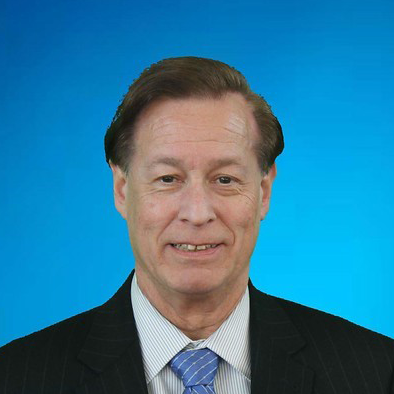
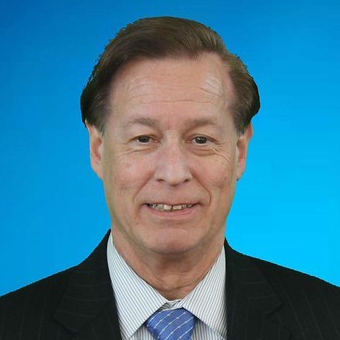
Updated speakers

Changed region(s): [[0.0588, 0.0294, 1.0, 1.0], [0.0, 0.8529, 0.0588, 0.8824]]

diff --git a/src/constants/speakers.ts b/src/constants/speakers.ts
@@ -3,14 +3,41 @@ export const SPEAKERS = [
         id: 1,
         speakers: [
             {
-                image: "/speakers/charles_sills.png",
-                name: "Charles Sills",
-                position: "President & CEO",
-                company: "American Defense Alliance",
+                image: "/speakers/joachim_christian.png",
+                name: "His Royal Highness Prince Joachim",
+                position: "Prince of Denmark",
+                company: "",
                 bio: `
-                Charles Sills is a recognized authority on U.S. Government Contracting and an advocate for Small Business access to Federal and Military procurement. He is President of FED/Contracting, LLC, a Washington D.C. based consultancy that assists Small Businesses to succeed in the Government Sector, helps Prime Contractors qualify Diversity Suppliers, and facilitates Federal ‘Mentor-Protégé’ partnerships. He is a former Naval Intelligence Officer who served in National Security positions in the Pentagon and the Middle East/Indian Ocean Theater. Later he directed Defense Systems and Renewable Energy Strategic Marketing in Lockheed Martin’s International Division.
-                <br></br>
-                He has an M.A. from the Fletcher School of Law & Diplomacy (Tufts & Harvard), and an A.B. from Princeton University/Woodrow Wilson School of Public & Int’l Affairs.
+                Joachim Holger Waldemar Christian, Prince of Denmark, Count of Monpezat, was born on 7 June 1969. His Royal Highness Prince Joachim is the son of HM Queen Margrethe II and Prince Henrik of Denmark (d. 2018). He is included in the order of succession to the Throne and may act as Regent when HM The Queen and HRH Crown Prince Frederik are abroad.
+                <br><br>
+                Prince Joachim’s military career started in 1987 as recruit in the Queen's Own Regiment. In 1988, Prince Joachim was appointed as a sergeant, and in 1989, he was appointed as a lieutenant of the reserve. After becoming a lieutenant, Prince Joachim served as a Platoon Commander of a tank squadron in the Prince's Own Regiment from 1989 to 1990.
+                In 1990, Prince Joachim was appointed a first lieutenant of the reserve and in 1992, after completion of advanced training level I for officers of the reserve (VUT I), came his appointment as a captain of the reserve. From 1996 to 2004, Prince Joachim was the commander of a tank squadron in the mobilization force of the Prince's Own Regiment and, from 2005, was attached to the Danish Division’s staff as a major of the reserve.
+                Following appointment as a lieutenant colonel of the reserve in 2011, Prince Joachim was designated as the chief of the Liaison Officers Group in Total Defence Region Fyn, Syd and Sønderjylland.
+                From November 2015 to June 2019 Prince Joachim served as special advisor to the Danish Chief of Defence in relation to the implementation of the new total force concept, focusing on the Home Guard and personnel of the Reserve.
+                From August 2019 to June 2020 Prince Joachim attended the 69th session of the Center for Advanced Military Studies (CHEM) and the 72nd session of the Institute of Advanced National Defense Studies (IHEDN) at École Militaire in Paris.
+                Since September 2020 Prince Joachim is Defense Attache at the Royal Danish Embassy in Paris.
+                `
+            },
+            {
+                image: "/speakers/dave_leinberger.png",
+                name: "Dave Leinberger",
+                position: "Chief of Army Community Partnerships",
+                company: "ODCS G-9 (Installations), HQDA, Pentagon",
+                bio: 
+                `
+                Dave Leinberger assumed the role as the Chief of Army Community Partnerships in July 2024.
+                In this position, Mr. Leinberger encourages innovation and collaboration between our
+                installations and local communities to develop partnerships that are mutually beneficial,
+                identify cost efficiencies, reduce installation service response times, and strengthens the
+                relationship with the local communities outside our installations. Mr. Leinberger focuses the
+                utilization of collaborative partnership authorities to achieve these goals. These authorities
+                include Intergovernmental Support Agreements (IGSAs), Cooperative Agreements, Mutual Aid
+                Agreements, Memorandum of Understanding, Enhanced Use Lease, and Other Transaction
+                Authority.
+                <br><br>
+                Previously, Mr. Leinberger served as the Army Community Partnership Program Manager,
+                Assistant Chief of Staff for Installation Management, in September 2019 and maintained that
+                role following the ACSIM’s transition to Deputy Chief of Staff, G-9 (Installations).
                 `
             },
             {
@@ -25,7 +52,26 @@ export const SPEAKERS = [
                 <br><br>
                 Brian’s previous roles include the Associate Director of the Defense and Security Research Institute at the University of Arizona as well as multiple roles within the Department of Defense.  Most notably, Brian spearheaded the creation of the DoDs first University Affiliated Research Center (UARC) to be established in more than 20 years. 
                 `
-            }
+            },
+            {
+                image: "/speakers/charles_sills.png",
+                name: "Charles Sills",
+                position: "President & CEO",
+                company: "American Defense Alliance",
+                bio: `
+                Charles Sills is a recognized authority on U.S. Government Contracting and an advocate for Small Business access to Federal and Military procurement. He is President of FED/Contracting, LLC, a Washington D.C. based consultancy that assists Small Businesses to succeed in the Government Sector, helps Prime Contractors qualify Diversity Suppliers, and facilitates Federal ‘Mentor-Protégé’ partnerships. He is a former Naval Intelligence Officer who served in National Security positions in the Pentagon and the Middle East/Indian Ocean Theater. Later he directed Defense Systems and Renewable Energy Strategic Marketing in Lockheed Martin’s International Division.
+                <br></br>
+                He has an M.A. from the Fletcher School of Law & Diplomacy (Tufts & Harvard), and an A.B. from Princeton University/Woodrow Wilson School of Public & Int’l Affairs.
+                `
+            },
+            // {
+            //     image: "",
+            //     name: "",
+            //     position: "",
+            //     company: "",
+            //     bio: ``
+            // },
+
         ]
     }
 ];
